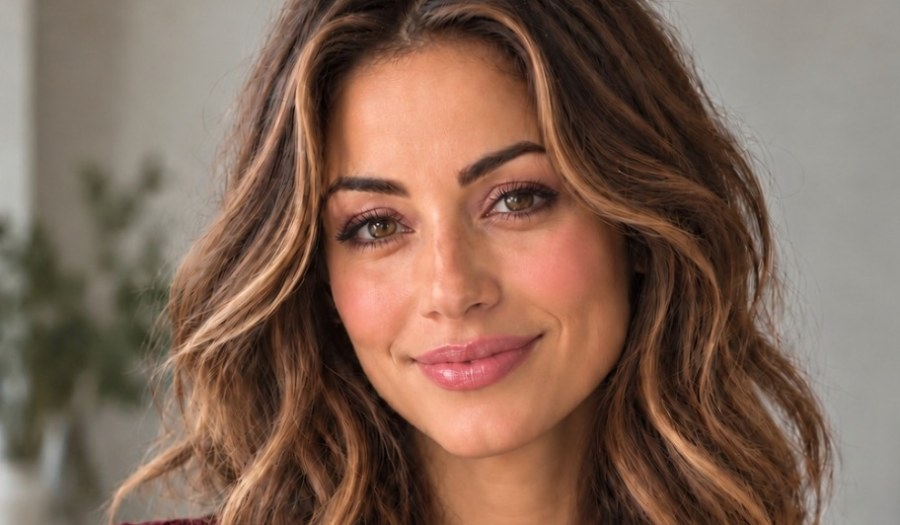
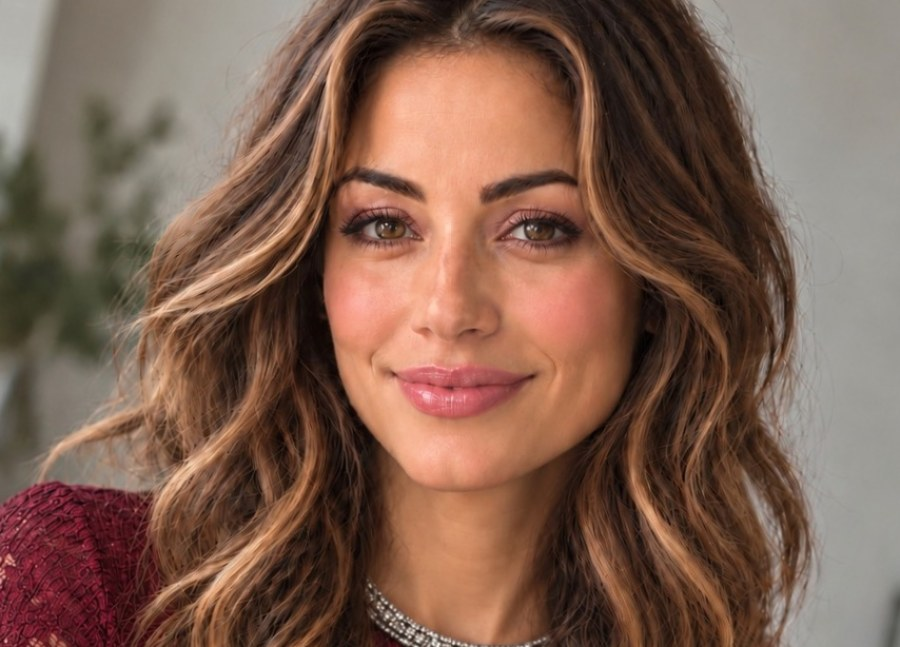
Paywall showcase: face straightened and centred so the split runs down the middle of her face and lips; labels back in the corners
Claude-Session: https://claude.ai/code/session_01PnfinMbQi6YwTeFiDcXdq3

diff --git a/app/app.css b/app/app.css
@@ -145,7 +145,7 @@ html.fc-app.fc-studio body .workspace.expanded .stagefoot #quickSave{display:non
 .fcpShow.empty:after{display:none}
 .fcpLine{position:absolute;top:0;bottom:42%;left:50%;width:2px;margin-left:-1px;background:linear-gradient(180deg,#f3dc96,#c9a24a);box-shadow:0 0 12px rgba(243,220,150,.8);z-index:1}
 .fcpTag{position:absolute;top:calc(env(safe-area-inset-top,0px) + 58px);z-index:2;font:700 10px -apple-system,system-ui,sans-serif;letter-spacing:1.4px;color:#fff;background:rgba(20,8,28,.45);padding:4px 9px;border-radius:999px}
-.fcpTag.l{right:calc(50% + 10px)}.fcpTag.r{left:calc(50% + 10px);background:linear-gradient(135deg,#c9a24a,#a77d2c)}
+.fcpTag.l{left:14px}.fcpTag.r{right:14px;background:linear-gradient(135deg,#c9a24a,#a77d2c)}
 .fcpBody{position:relative;z-index:1;margin-top:-54px;padding:0 20px calc(env(safe-area-inset-bottom,0px) + 16px);text-align:center}
 .fcpBody .fcpLogo{color:#8a6420;font-size:13.5px;font-weight:800;letter-spacing:2.6px;text-shadow:0 1px 0 rgba(255,250,253,.9),0 0 10px rgba(255,250,253,.9)}
 .fcPlan .fcpBody h2{margin:6px 0 14px;font:700 28px/1.1 Georgia,'Times New Roman',serif;letter-spacing:-.5px;color:#2a1838;background:none;border:0;padding:0}
